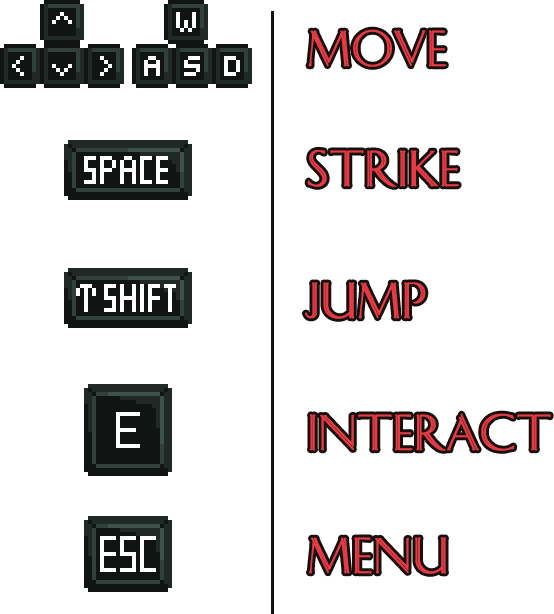
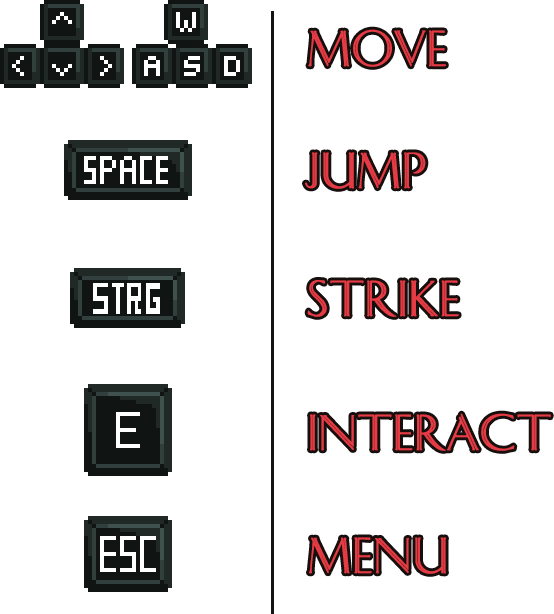
Update controls. Allow to cancel tutorial.

Changed region(s): [[0.5523, 0.4332, 0.8285, 0.5261], [0.5523, 0.2166, 0.8285, 0.3094], [0.0921, 0.4332, 0.3682, 0.5261]]

diff --git a/src/de/gurkenlabs/ldjam44/entities/Gatekeeper.java b/src/de/gurkenlabs/ldjam44/entities/Gatekeeper.java
@@ -1,5 +1,6 @@
 package de.gurkenlabs.ldjam44.entities;
 
+import java.awt.event.KeyEvent;
 import java.text.MessageFormat;
 
 import de.gurkenlabs.ldjam44.GameManager;
@@ -14,6 +15,7 @@ import de.gurkenlabs.litiengine.environment.Environment;
 import de.gurkenlabs.litiengine.environment.tilemap.MapProperty;
 import de.gurkenlabs.litiengine.gui.SpeechBubble;
 import de.gurkenlabs.litiengine.gui.SpeechBubbleListener;
+import de.gurkenlabs.litiengine.input.Input;
 import de.gurkenlabs.litiengine.resources.Resources;
 import de.gurkenlabs.litiengine.util.ArrayUtilities;
 
@@ -30,12 +32,25 @@ public class Gatekeeper extends Creature {
 
   private boolean transitioning;
 
+  private boolean tutorial;
+
+  private SpeechBubble tutorialBubble;
+
   static {
     rudeLines = Resources.strings().getList("rude.txt");
     goalLines = Resources.strings().getList("goal.txt");
   }
 
   public Gatekeeper() {
+
+    Input.keyboard().onKeyReleased(e -> {
+      if (e.getKeyCode() == KeyEvent.VK_ENTER || e.getKeyCode() == KeyEvent.VK_SPACE || e.getKeyCode() == KeyEvent.VK_E) {
+        if (this.isTutorial() && this.tutorialBubble != null) {
+          this.tutorialBubble.hide();
+        }
+      }
+    });
+
     this.addMessageListener(l -> {
       if (l.getMessage() == null) {
         return;
@@ -107,31 +122,37 @@ public class Gatekeeper extends Creature {
   }
 
   private void performIntroduction() {
-
+    this.tutorial = true;
     SpeechBubble bubble1 = SpeechBubble.create(this, String.format("%s is a terrible dust pit. Let us seek fortune together in Rome, the heart of this glorious empire!", Game.world().environment().getMap().getStringValue(MapProperty.MAP_TITLE)), GameManager.SPEECH_BUBBLE_APPEARANCE,
         GameManager.SPEECH_BUBBLE_FONT);
     bubble1.setTextDisplayTime(6500);
+    tutorialBubble = bubble1;
     bubble1.addListener(new SpeechBubbleListener() {
       @Override
       public void hidden() {
 
         SpeechBubble bubble2 = SpeechBubble.create(Gatekeeper.this, "First, you need to prove your worth to me!", GameManager.SPEECH_BUBBLE_APPEARANCE, GameManager.SPEECH_BUBBLE_FONT);
         bubble2.setTextDisplayTime(4500);
+        tutorialBubble = bubble2;
         bubble2.addListener(new SpeechBubbleListener() {
           @Override
           public void hidden() {
             SpeechBubble bubble3 = SpeechBubble.create(Gatekeeper.this, "Bring me a slave and I will help you travel to a more glorious place.", GameManager.SPEECH_BUBBLE_APPEARANCE, GameManager.SPEECH_BUBBLE_FONT);
             bubble3.setTextDisplayTime(5500);
+            tutorialBubble = bubble3;
             bubble3.addListener(new SpeechBubbleListener() {
               @Override
               public void hidden() {
 
                 SpeechBubble bubble4 = SpeechBubble.create(Gatekeeper.this, "Maybe you could ask that Roman soldier over there nicely to hand over his slave to you.", GameManager.SPEECH_BUBBLE_APPEARANCE, GameManager.SPEECH_BUBBLE_FONT);
                 bubble4.setTextDisplayTime(6500);
+                tutorialBubble = bubble4;
                 bubble4.addListener(new SpeechBubbleListener() {
                   @Override
                   public void hidden() {
                     Player.instance().setState(PlayerState.CONTROLLABLE);
+                    tutorial = false;
+                    tutorialBubble = null;
                   }
                 });
               }
@@ -157,5 +178,13 @@ public class Gatekeeper extends Creature {
 
   public void setTransitioning(boolean transitioning) {
     this.transitioning = transitioning;
+  }
+
+  public boolean isTutorial() {
+    return tutorial;
+  }
+
+  public void setTutorial(boolean tutorial) {
+    this.tutorial = tutorial;
   }
 }

diff --git a/src/de/gurkenlabs/ldjam44/PlayerInput.java b/src/de/gurkenlabs/ldjam44/PlayerInput.java
@@ -27,7 +27,7 @@ public final class PlayerInput {
       }
     });
 
-    Input.keyboard().onKeyPressed(KeyEvent.VK_SPACE, e -> {
+    Input.keyboard().onKeyPressed(KeyEvent.VK_CONTROL, e -> {
       if (Player.instance().getState() != PlayerState.CONTROLLABLE) {
         return;
       }
@@ -35,7 +35,7 @@ public final class PlayerInput {
       Player.instance().getStrike().cast();
     });
 
-    Input.keyboard().onKeyPressed(KeyEvent.VK_SHIFT, e -> {
+    Input.keyboard().onKeyPressed(KeyEvent.VK_SPACE, e -> {
       if (Player.instance().getState() != PlayerState.CONTROLLABLE) {
         return;
       }
